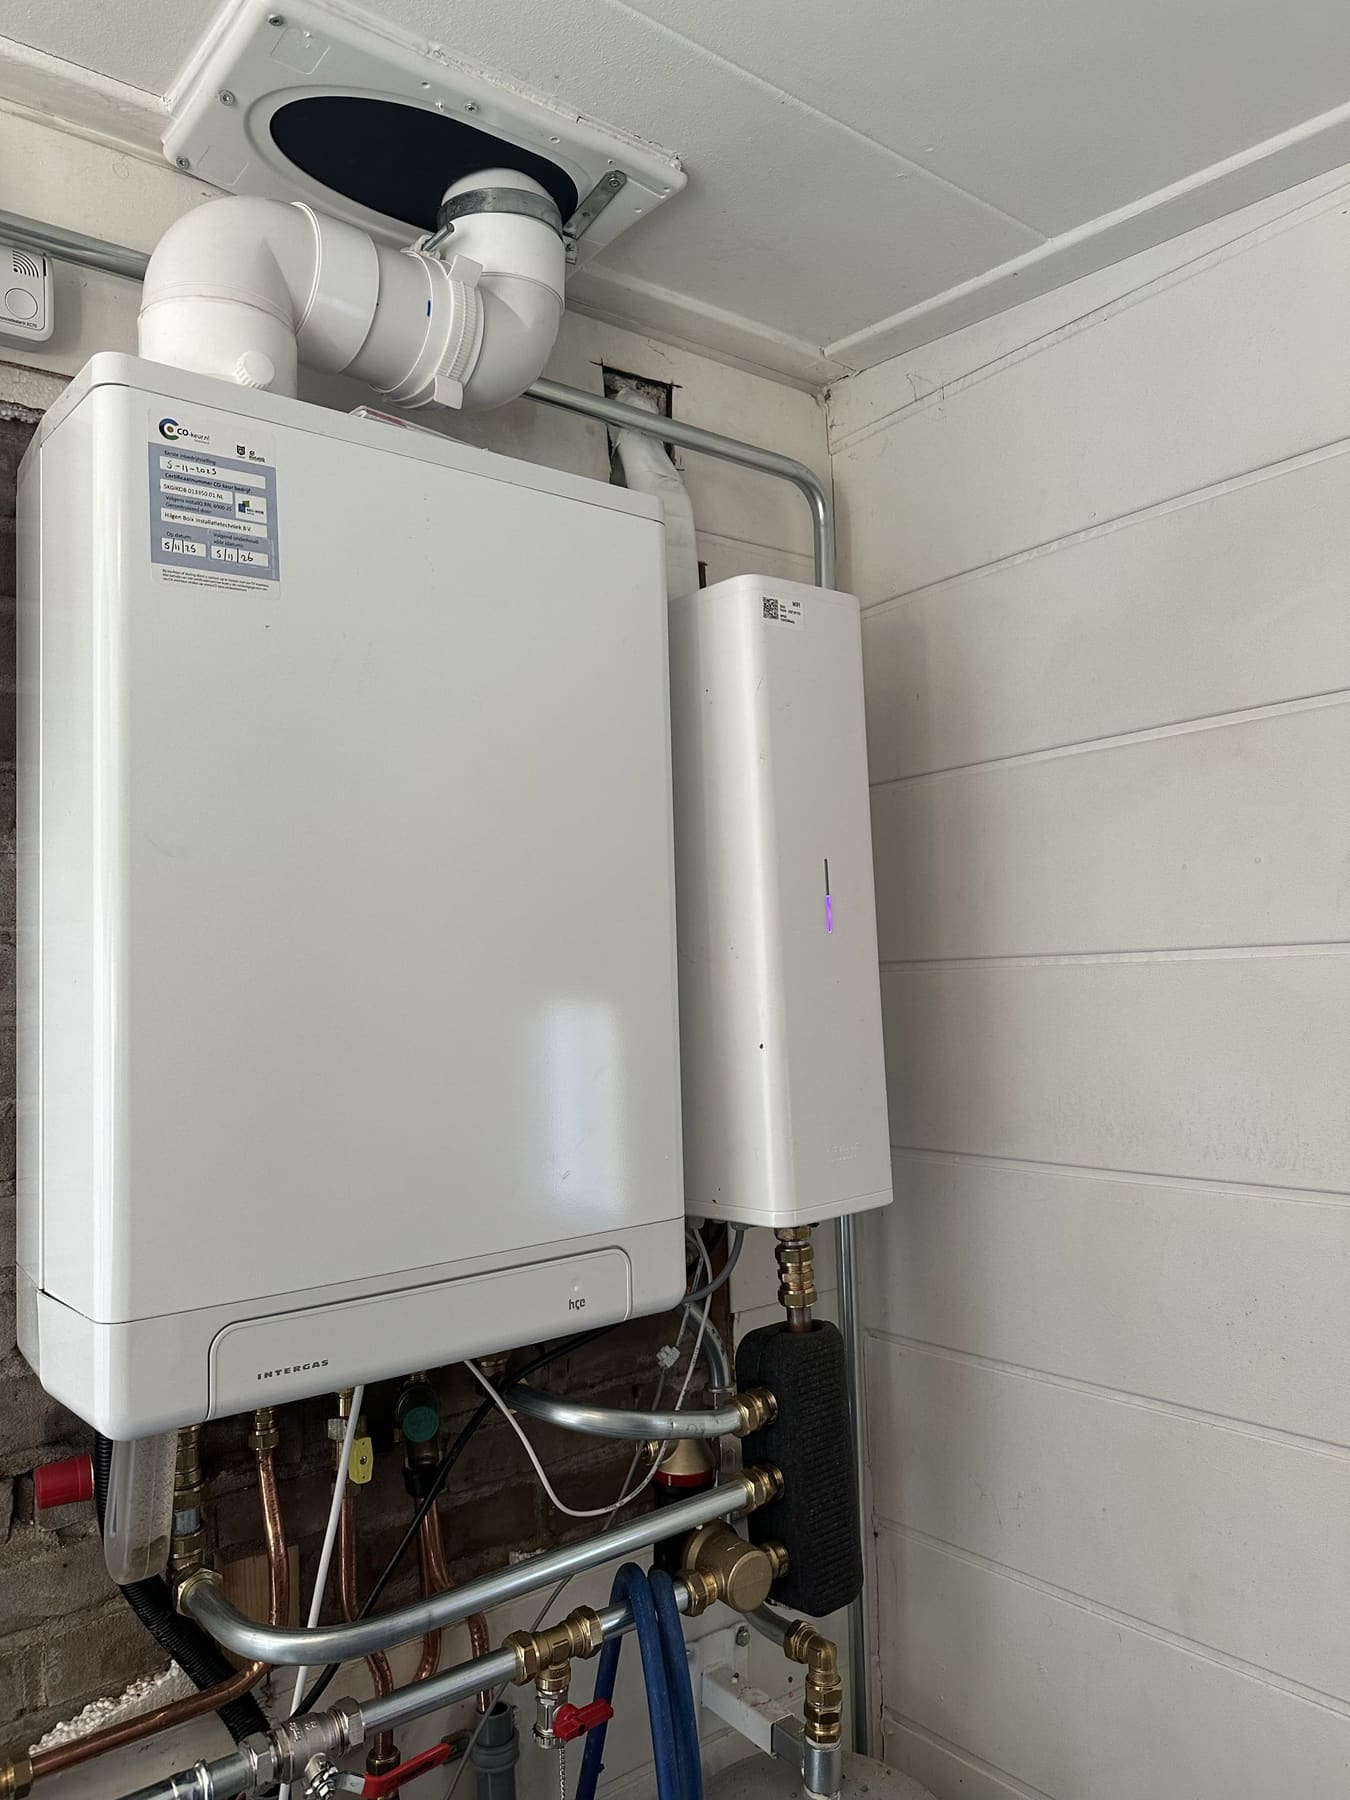
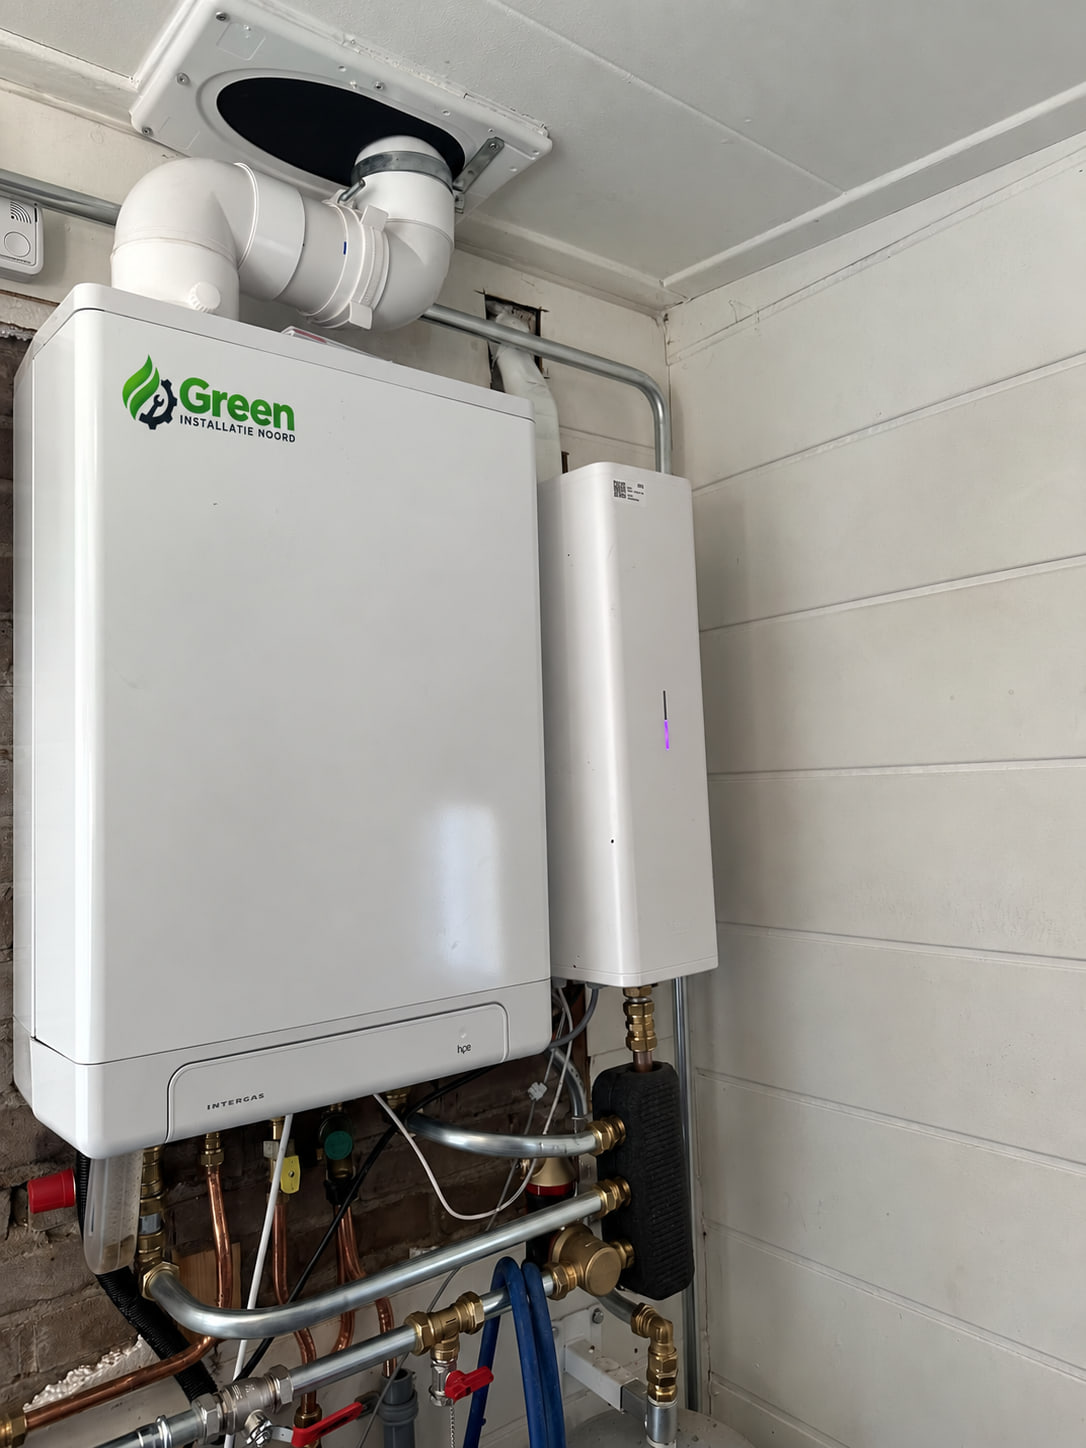
fix: use new Intergas CV photo and polish admin website copy
Replace cv-intergas with the new branded install photo for the CV gids and service imagery, keep full-subject article presentation, and remove price/infra wording from the admin website overview.

diff --git a/src/admin/pages/WebsiteInfoPage.tsx b/src/admin/pages/WebsiteInfoPage.tsx
@@ -2,45 +2,45 @@ import { PageHeader } from '../components/PageHeader'
 
 const included = [
   {
-    title: 'Professionele bedrijfswebsite',
-    text: 'Duidelijke pagina’s over CV-ketel, airco, warmtepomp en service/onderhoud, met jullie eigen foto’s en vaste bedrijfsgegevens.',
+    title: 'Sterke bedrijfswebsite',
+    text: 'Een complete, professionele site voor Green Installatie Noord: CV-ketel, airco, warmtepomp en service — met jullie eigen projectfoto’s, duidelijke teksten en vaste bedrijfsgegevens.',
   },
   {
-    title: 'Offerteaanvragen',
-    text: 'Bezoekers vragen een offerte aan. Die komt in het adminpaneel én automatisch in de mailbox info@greeninstallatienoord.nl. De klant krijgt een ontvangstbevestiging.',
+    title: 'Offerteaanvragen die binnenkomen',
+    text: 'Bezoekers vragen eenvoudig een offerte aan. Elke aanvraag verschijnt hier in het beheer én in jullie mailbox. De klant krijgt meteen een nette ontvangstbevestiging.',
   },
   {
-    title: 'Afspraakaanvragen',
-    text: 'Klanten kiezen dienst, datum en tijdvak. Aanvragen landen in Afspraken in het beheer. Bevestigen of annuleren kan vanuit het adminpaneel; de klant krijgt dan een mail.',
+    title: 'Afspraakaanvragen met overzicht',
+    text: 'Klanten kiezen dienst, datum en tijdvak. Alles landt in Afspraken. Bevestigen of annuleren doe je vanuit dit paneel — de klant wordt automatisch geïnformeerd.',
   },
   {
     title: 'Contactformulier',
-    text: 'Berichten via contact komen eveneens in beheer én per e-mail binnen.',
+    text: 'Berichten via de contactpagina komen hier én per e-mail binnen, zodat geen vraag verloren gaat.',
   },
   {
-    title: 'Klantenoverzicht',
-    text: 'Contacten worden hergebruikt op e-mailadres, zodat afspraken, offertes en berichten bij elkaar horen.',
+    title: 'Klanten bij elkaar',
+    text: 'Contacten worden hergebruikt op e-mailadres. Offertes, afspraken en berichten horen zo bij dezelfde klant — overzichtelijk en professioneel.',
   },
   {
     title: 'E-mailcentrum',
-    text: 'Templates aanpassen, handmatig een mail sturen en zien wat er verzonden, overgeslagen of mislukt is.',
+    text: 'Templates aanpassen, zelf een bericht sturen en zien wat er is verzonden. Communicatie vanaf één plek, in jullie huisstijl.',
   },
   {
     title: 'Beveiligd beheer',
-    text: 'Login met wachtwoord, beveiligde sessie-cookie en een verborgen beheerpad. Geen wachtwoorden in de websitebron.',
+    text: 'Alleen voor jullie: veilig inloggen, privé-omgeving en beschermde sessie. Gevoelige gegevens blijven uit de publieke website.',
   },
   {
-    title: 'Mobielvriendelijk & snel',
-    text: 'Gebouwd als moderne React-site op Cloudflare (Worker + database), zodat pagina’s snel laden op telefoon en desktop.',
+    title: 'Snel op telefoon én desktop',
+    text: 'De site is gemaakt om er goed uit te zien en snel te laden — of bezoekers nu op hun telefoon of achter de computer zitten.',
   },
-]
-
-const howBuilt = [
-  { label: 'Frontend', value: 'React + TypeScript (Vite)' },
-  { label: 'Hosting', value: 'Cloudflare Worker + Assets op greeninstallatienoord.nl' },
-  { label: 'Database', value: 'Cloudflare D1 (aanvragen, klanten, sessies, e-maillogs)' },
-  { label: 'E-mail', value: 'Resend, afzender info@greeninstallatienoord.nl' },
-  { label: 'Beheer', value: 'Privé-omgeving op /blackberry97' },
+  {
+    title: 'Werkgebied & kennis',
+    text: 'Duidelijke pagina’s over jullie werkgebied, plus advies- en kennisartikelen die vertrouwen wekken en helpen gevonden te worden.',
+  },
+  {
+    title: 'Portfolio van echt werk',
+    text: 'Projectfoto’s tonen wat jullie maken: nette montage, buitenunits, ketels en warmtepompen — zichtbaar voor de bezoeker.',
+  },
 ]
 
 const addons = [
@@ -61,8 +61,8 @@ const addons = [
     text: 'Netjes geverifieerde reviews tonen of een uitnodiging sturen na afronding van werk.',
   },
   {
-    title: 'Uitgebreide SEO / landingspagina’s',
-    text: 'Extra plaats- of dienstpagina’s (bijv. per stad) om beter gevonden te worden.',
+    title: 'Extra landingspagina’s',
+    text: 'Meer plaats- of dienstpagina’s om nog beter gevonden te worden in de regio.',
   },
   {
     title: 'Foto- en contentbeheer',
@@ -78,7 +78,7 @@ const addons = [
   },
   {
     title: 'Uitgebreide rapportage',
-    text: 'Overzicht van aanvragen per maand, conversie en drukke periodes.',
+    text: 'Overzicht van aanvragen per maand, drukke periodes en wat goed werkt.',
   },
 ]
 
@@ -87,22 +87,27 @@ export function WebsiteInfoPage() {
     <div>
       <PageHeader
         title="Website & mogelijkheden"
-        description="Duidelijk overzicht van wat deze site nu doet, hoe hij is gebouwd, en welke uitbreidingen later mogelijk zijn."
+        description="Wat jullie online al hebben — en wat later nog verder uitgebreid kan worden."
       />
 
       <section className="mb-6 border border-[var(--admin-line)] bg-[var(--admin-panel)] p-5">
         <h2 className="font-semibold">Kort gezegd</h2>
         <p className="mt-2 max-w-3xl text-sm leading-relaxed text-[var(--admin-muted)]">
-          Green Installatie Noord heeft een complete online aanwezigheid: een sterke publieke website
-          plus een privé-adminpaneel. Offertes, afspraken en contactaanvragen worden opgeslagen in de
-          database, getoond in dit beheer, en automatisch gemaild naar{' '}
+          Green Installatie Noord heeft een complete online aanwezigheid: een sterke publieke
+          website én dit privé-adminpaneel. Offertes, afspraken en contactaanvragen komen hier
+          binnen en gaan tegelijk naar{' '}
           <span className="font-medium text-[var(--admin-ink)]">info@greeninstallatienoord.nl</span>.
-          Klanten krijgen een nette ontvangstbevestiging — geen valse “afspraak is al definitief”-taal.
+          Klanten krijgen een nette ontvangstbevestiging — helder en professioneel, zonder valse
+          beloftes over een al definitieve afspraak.
         </p>
       </section>
 
       <section className="mb-6 border border-[var(--admin-line)] bg-[var(--admin-panel)] p-5">
-        <h2 className="font-semibold">Wat zit er al inbegrepen</h2>
+        <h2 className="font-semibold">Wat jullie website al kan</h2>
+        <p className="mt-1 max-w-3xl text-sm text-[var(--admin-muted)]">
+          Dit zit er al in — klaar voor gebruik, gericht op meer aanvragen en een betrouwbare
+          uitstraling.
+        </p>
         <ul className="mt-4 grid gap-4 sm:grid-cols-2">
           {included.map((item) => (
             <li key={item.title} className="border border-[var(--admin-line)] bg-white/40 p-4">
@@ -114,38 +119,21 @@ export function WebsiteInfoPage() {
       </section>
 
       <section className="mb-6 border border-[var(--admin-line)] bg-[var(--admin-panel)] p-5">
-        <h2 className="font-semibold">Hoe is dit gebouwd</h2>
-        <p className="mt-1 text-sm text-[var(--admin-muted)]">
-          Techniek in gewone taal — handig om te laten zien dat het geen “losse WordPress-pagina” is.
-        </p>
-        <dl className="mt-4 grid gap-3 text-sm sm:grid-cols-2">
-          {howBuilt.map((row) => (
-            <div key={row.label}>
-              <dt className="text-[11px] font-semibold tracking-[0.06em] text-[var(--admin-muted)] uppercase">
-                {row.label}
-              </dt>
-              <dd className="mt-1 font-medium">{row.value}</dd>
-            </div>
-          ))}
-        </dl>
-      </section>
-
-      <section className="mb-6 border border-[var(--admin-line)] bg-[var(--admin-panel)] p-5">
         <h2 className="font-semibold">Wat gebeurt er bij een aanvraag</h2>
         <ol className="mt-3 list-decimal space-y-2 pl-5 text-sm leading-relaxed text-[var(--admin-muted)]">
           <li>Bezoeker vult offerte, afspraak of contact in op de website.</li>
-          <li>Gegevens worden veilig opgeslagen in de Cloudflare-database.</li>
-          <li>Het item verschijnt meteen in dit adminpaneel (Offertes / Afspraken / Contact).</li>
+          <li>De aanvraag wordt veilig opgeslagen en is meteen zichtbaar in dit beheer.</li>
+          <li>Het item verschijnt onder Offertes, Afspraken of Contact.</li>
           <li>Er gaat automatisch een melding naar info@greeninstallatienoord.nl.</li>
           <li>De klant krijgt een ontvangstbevestiging per e-mail.</li>
         </ol>
       </section>
 
-      <section className="mb-6 border border-[#d8e8db] bg-[#f3faf4] p-5">
-        <h2 className="font-semibold text-[#1f4d2a]">Later uitbreiden (meerprijs)</h2>
+      <section className="border border-[#d8e8db] bg-[#f3faf4] p-5">
+        <h2 className="font-semibold text-[#1f4d2a]">Later uitbreiden</h2>
         <p className="mt-1 max-w-3xl text-sm text-[#3d5f46]">
-          Onderstaande functies horen niet bij de huidige oplevering, maar zijn logische volgende
-          stappen. Ideaal om met de klant te bespreken als upgrade.
+          De basis staat. Onderstaande opties zijn logische vervolgstappen als jullie later nóg
+          meer uit de online aanwezigheid willen halen.
         </p>
         <ul className="mt-4 grid gap-3 sm:grid-cols-2">
           {addons.map((item) => (
@@ -155,15 +143,6 @@ export function WebsiteInfoPage() {
             </li>
           ))}
         </ul>
-      </section>
-
-      <section className="border border-[var(--admin-line)] bg-[var(--admin-panel)] p-5">
-        <h2 className="font-semibold">Tip voor oplevering</h2>
-        <p className="mt-2 max-w-3xl text-sm leading-relaxed text-[var(--admin-muted)]">
-          Laat de koper dit scherm zien samen met een testofferte of testafspraak. Dan is meteen
-          zichtbaar: website → database → admin → mailbox. Dat maakt de waarde concreet — en opent
-          het gesprek over optionele uitbreidingen.
-        </p>
       </section>
     </div>
   )

diff --git a/src/components/blog/ArticleTemplate.tsx b/src/components/blog/ArticleTemplate.tsx
@@ -89,7 +89,7 @@ export function ArticleTemplate({ post }: ArticleTemplateProps) {
                   asset={postImage(post)}
                   alt={post.imageAlt}
                   variant="project"
-                  className="mb-8 mx-auto w-fit max-h-[22rem] max-w-full sm:max-h-[26rem] lg:max-h-[28rem]"
+                  className="mb-8 mx-auto w-fit max-h-[min(70vw,22rem)] max-w-full sm:max-h-[26rem] lg:max-h-[30rem]"
                   sizes="(min-width: 768px) 42rem, 100vw"
                   priority
                 />

diff --git a/src/data/guides.ts b/src/data/guides.ts
@@ -24,7 +24,7 @@ export const guidePosts: BlogPost[] = [
     publishedAt: '2026-09-12',
     updatedAt: '2026-09-12',
     imageKey: 'cvIntergas',
-    imageAlt: 'Cv-ketel in een technische ruimte, ter illustratie van deze gids',
+    imageAlt: 'Intergas cv-ketel van Green Installatie Noord met leidingwerk in een technische ruimte',
     relatedServiceSlugs: ['cv-ketel', 'service-onderhoud'],
     relatedArticleSlugs: [
       'wanneer-cv-ketel-vervangen',

diff --git a/src/data/media.ts b/src/data/media.ts
@@ -182,11 +182,11 @@ export const workPhotos = {
   ),
   cvIntergas: photo(
     cvIntergas,
-    1350,
-    1800,
-    'Intergas-ketel met nevenunit en leidingwerk in een technische ruimte',
-    '42% 40%',
-    '40% 38%',
+    1086,
+    1448,
+    'Intergas cv-ketel van Green Installatie Noord met leidingwerk en rookgasafvoer in een technische ruimte',
+    '50% 42%',
+    '50% 40%',
   ),
 } as const satisfies Record<string, MediaAsset>
 
